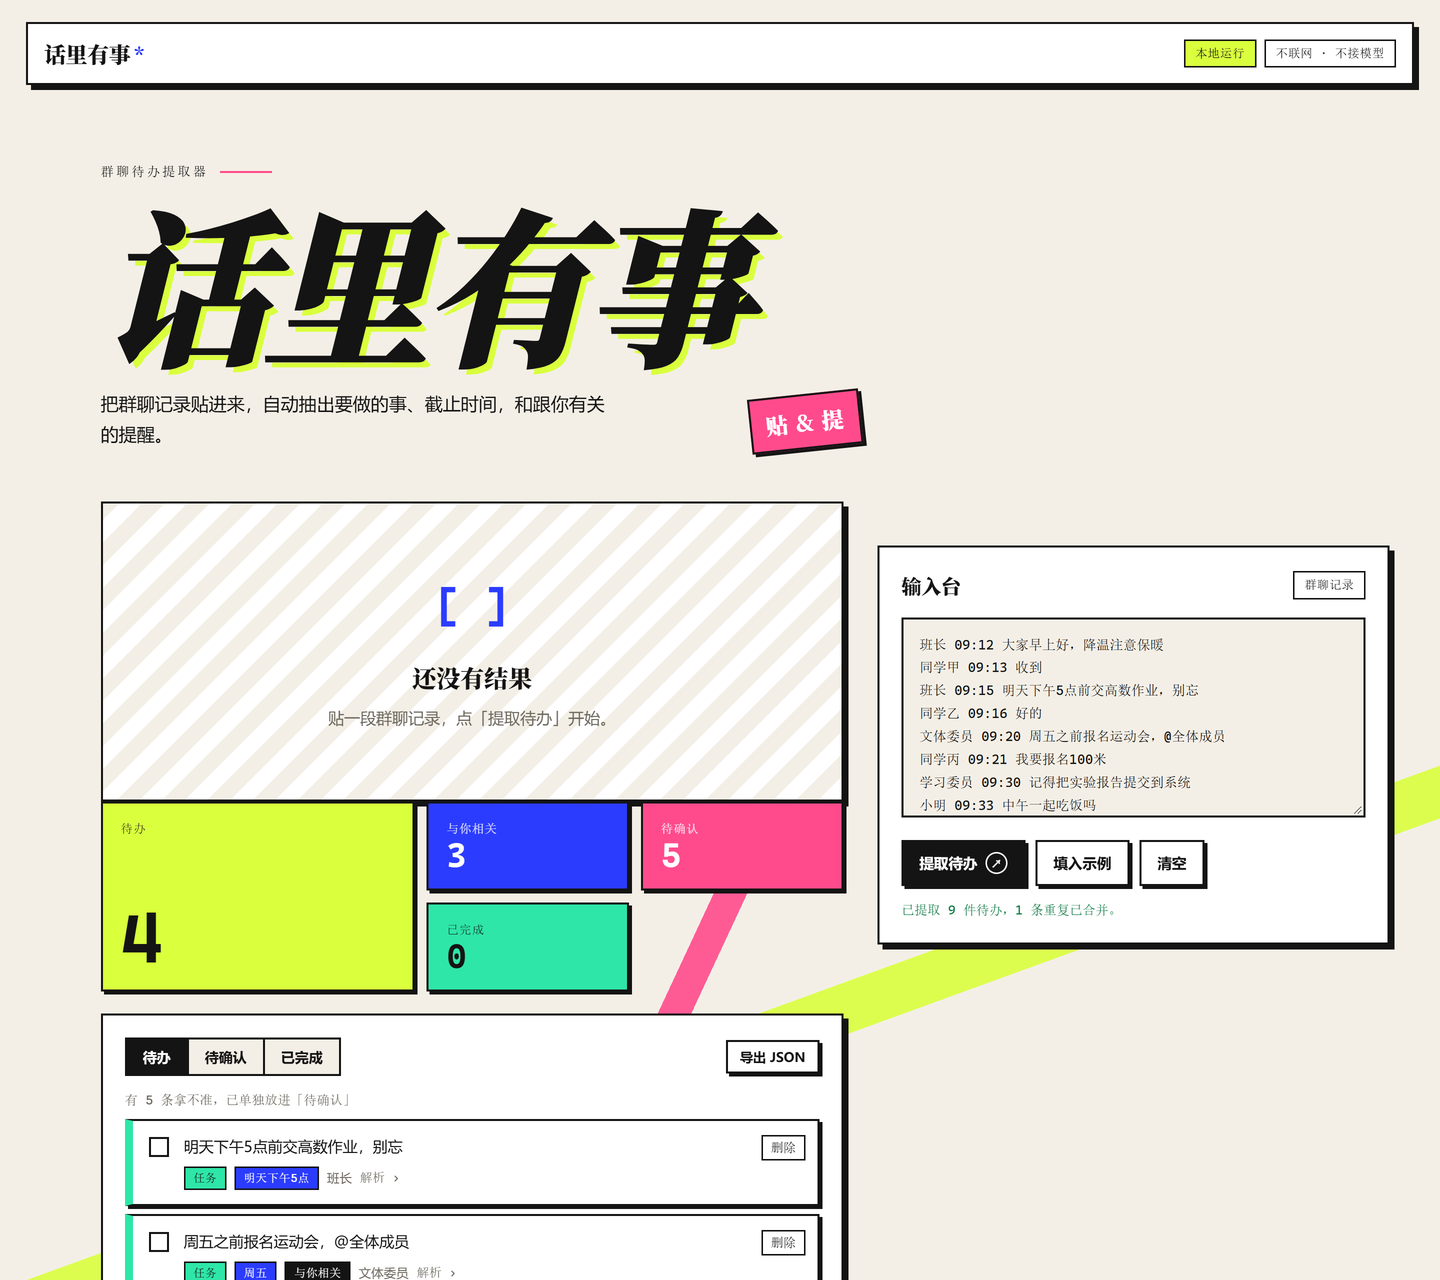
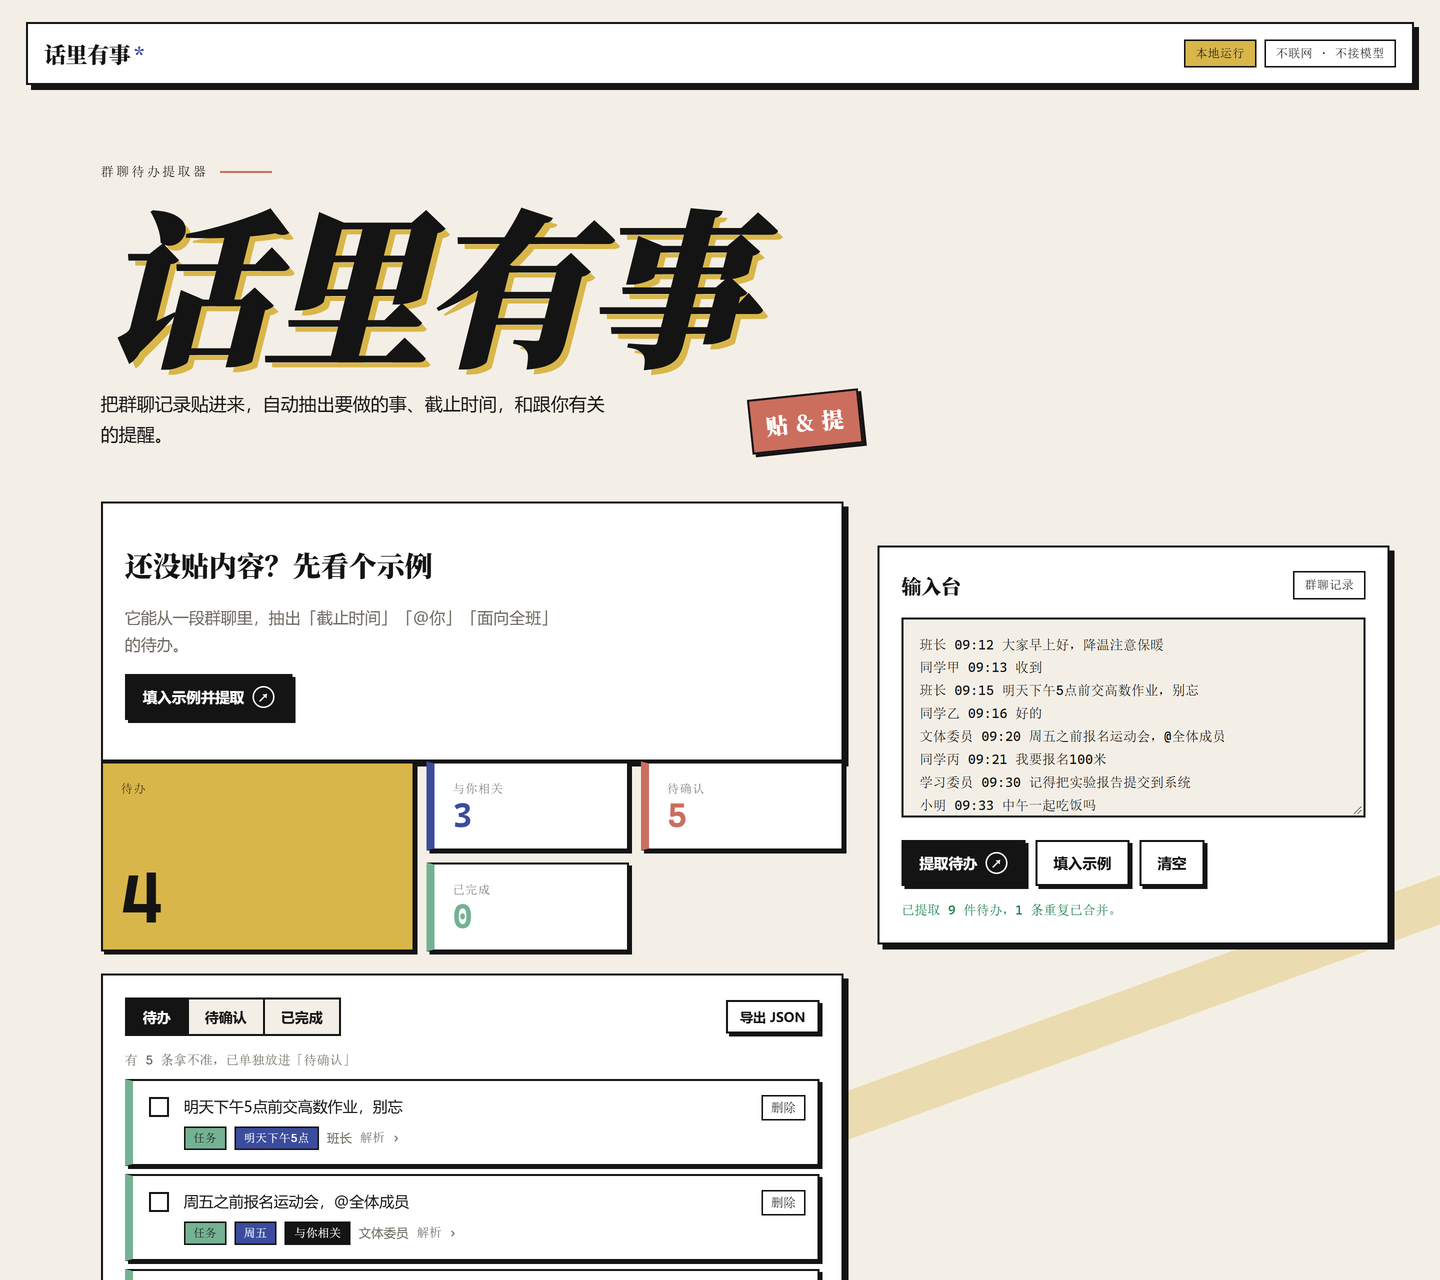
降饱和配色 + 空态改一键体验引导卡
- 配色压火：荧光色降一档饱和/明度
  酸柠绿→芥末黄 #D9B64A、钴蓝→靛蓝 #3B4C9E、
  荧光粉→陶土 #CB6E5E、薄荷→灰绿 #74B293
- 大面积高饱和只留「待办」大块；其余三个统计块改
  白底 + 各自色粗边 + 数字用色，实心色块面积砍到 1/4
- 背景斜带去粉、压淡
- 空态「[ ] 还没有结果」装饰方格 → 引导卡：
  大字 + 说明 + 「填入示例并提取」按钮（点击=填示例+提取）

diff --git a/styles.css b/styles.css
@@ -6,18 +6,18 @@
    ============================================================ */
 
 :root {
-  /* 撞色色板：酸柠绿 × 钴蓝 × 荧光粉 × 薄荷，压在一个近黑骨架上 */
+  /* 撞色色板：芥末黄 × 靛蓝 × 陶土 × 灰绿，压在一个近黑骨架上 */
   --paper: #F4EFE6;   /* 暖纸底 */
   --paper-2: #EAE2D2;
   --ink: #141414;     /* 近黑 */
   --white: #FFFFFF;
 
-  --acid: #D9FF3D;    /* 酸柠绿 */
-  --blue: #2B3CFF;    /* 钴蓝 */
+  --acid: #D9B64A;    /* 芥末黄 */
+  --blue: #3B4C9E;    /* 靛蓝 */
   --blue-ink: #FFFFFF;
-  --pink: #FF4B8C;    /* 荧光粉 */
-  --mint: #2EE6A8;    /* 薄荷 */
-  --orange: #FF5A1F;  /* 橙 */
+  --pink: #CB6E5E;    /* 陶土 */
+  --mint: #74B293;    /* 灰绿 */
+  --orange: #C2541E;  /* 橙 */
 
   --amber: #B4630A;
   --red: #D43A26;
@@ -25,7 +25,7 @@
   --line: #141414;
   --line-soft: rgba(20, 20, 20, 0.16);
   --weak: #6E6A60;
-  --mark: #D9FF3D;
+  --mark: #D9B64A;
 
   /* 字体混搭：衬线标题 × 无衬线正文 × 等宽标签 */
   --display: "Noto Serif SC", "Source Han Serif SC", "Songti SC", "STSong", "SimSun", Georgia, serif;
@@ -55,18 +55,17 @@ body {
   overflow-x: hidden;
 }
 
-/* ---- 斜向撞色背景带（不对称的底色）---- */
+/* ---- 斜向撞色背景带（不对称的底色，压淡不抢戏）---- */
 .bg {
   position: fixed;
   inset: 0;
   z-index: -1;
   pointer-events: none;
   background:
-    linear-gradient(160deg, transparent 0 58%, var(--acid) 58% 62%, transparent 62%) no-repeat,
-    linear-gradient(115deg, transparent 0 46%, var(--pink) 46% 48%, transparent 48%) no-repeat;
-  background-size: 100% 62%, 100% 40%;
-  background-position: 0 108%, 0 100%;
-  opacity: 0.9;
+    linear-gradient(160deg, transparent 0 60%, var(--acid) 60% 64%, transparent 64%) no-repeat;
+  background-size: 100% 55%;
+  background-position: 0 115%;
+  opacity: 0.35;
 }
 
 /* ---- 顶栏 ---- */
@@ -281,21 +280,19 @@ textarea:focus { background: var(--white); }
 .hint--ok { color: #0E7A44; }
 .hint--warn { color: var(--amber); }
 
-/* ---- 输出区 ---- */
+/* ---- 输出区：空态引导卡（一键体验入口）---- */
 .placeholder {
-  min-height: 300px;
+  min-height: 260px;
   display: flex;
   flex-direction: column;
-  align-items: center;
+  align-items: flex-start;
   justify-content: center;
-  gap: 8px;
-  text-align: center;
-  background:
-    repeating-linear-gradient(-45deg, var(--white) 0 16px, var(--paper) 16px 32px);
+  gap: 16px;
+  text-align: left;
+  background: var(--white);
 }
-.placeholder__icon { margin: 0; font-family: var(--mono); font-size: 44px; font-weight: 700; color: var(--blue); }
-.placeholder__title { margin: 8px 0 0; font-family: var(--display); font-weight: 900; font-size: 24px; }
-.placeholder__sub { margin: 0; color: var(--weak); }
+.placeholder__title { margin: 0; font-family: var(--display); font-weight: 900; font-size: 28px; }
+.placeholder__sub { margin: 0; color: var(--weak); max-width: 440px; line-height: 1.7; }
 
 /* ---- 统计块：不对称 grid，右下故意留空 ---- */
 .stats {
@@ -321,9 +318,14 @@ textarea:focus { background: var(--white); }
   background: var(--acid);
 }
 .stat--big .stat__num { font-size: 72px; }
-.stat--blue { background: var(--blue); color: var(--blue-ink); }
-.stat--pink { background: var(--pink); color: var(--white); }
-.stat--mint { background: var(--mint); }
+/* 三个次要统计：白底 + 各自色粗边 + 数字用色，压掉大面积高饱和 */
+.stat--blue { background: var(--white); color: var(--ink); border-left: 8px solid var(--blue); }
+.stat--pink { background: var(--white); color: var(--ink); border-left: 8px solid var(--pink); }
+.stat--mint { background: var(--white); color: var(--ink); border-left: 8px solid var(--mint); }
+.stat--blue .stat__num { color: var(--blue); }
+.stat--pink .stat__num { color: var(--pink); }
+.stat--mint .stat__num { color: var(--mint); }
+.stat--blue .stat__label, .stat--pink .stat__label, .stat--mint .stat__label { opacity: 0.6; }
 
 .stat__label { display: block; font-family: var(--mono); font-size: 12px; letter-spacing: 0.06em; opacity: 0.85; }
 .stat__num { display: block; font-family: var(--mono); font-weight: 700; font-size: 34px; line-height: 1; }

diff --git a/index.html b/index.html
@@ -33,9 +33,12 @@
       <!-- 左：结果 -->
       <section class="col col--results">
         <div id="placeholder" class="box placeholder">
-          <p class="placeholder__icon" aria-hidden="true">[ ]</p>
-          <p class="placeholder__title">还没有结果</p>
-          <p class="placeholder__sub">贴一段群聊记录，点「提取待办」开始。</p>
+          <p class="placeholder__title">还没贴内容？先看个示例</p>
+          <p class="placeholder__sub">它能从一段群聊里，抽出「截止时间」「@你」「面向全班」的待办。</p>
+          <button type="button" id="quickstart" class="btn btn--primary">
+            <span>填入示例并提取</span>
+            <span class="btn__icon" aria-hidden="true">↗</span>
+          </button>
         </div>
 
         <section id="result" class="result" hidden>

diff --git a/app.js b/app.js
@@ -30,6 +30,7 @@
   const chatEl = document.getElementById('chat');
   const extractBtn = document.getElementById('extract');
   const sampleBtn = document.getElementById('sample');
+  const quickstartBtn = document.getElementById('quickstart');
   const clearBtn = document.getElementById('clear');
   const hintEl = document.getElementById('hint');
   const resultEl = document.getElementById('result');
@@ -330,6 +331,7 @@
 
   extractBtn.addEventListener('click', doExtract);
   sampleBtn.addEventListener('click', function () { chatEl.value = SAMPLE_CHAT; setHint(''); save(); });
+  quickstartBtn.addEventListener('click', function () { chatEl.value = SAMPLE_CHAT; doExtract(); });
   clearBtn.addEventListener('click', function () {
     chatEl.value = '';
     items = [];

diff --git a/README.md b/README.md
@@ -20,7 +20,7 @@
 - **类型标签**：每条标为 **任务 / 提醒 / 请求** 三类之一，一眼区分"要去做""知道一下""有人求你"。
 - **导出 JSON**：把结果导出成结构化 JSON，方便接后续工具或写进复盘材料。
 - **本地存储**：数据只存在本浏览器（localStorage），刷新不丢，不上传、不联网。
-- **界面**：新粗野主义（Neo-brutalism）风格——撞色（酸柠绿 × 钴蓝 × 荧光粉 × 薄荷）、2px 硬描边、无 blur 的实心硬阴影、衬线斜体大标题 × 无衬线正文 × 等宽标签三种字体混搭，负空间刻意不对称（左宽右窄、侧栏错位、统计块右下留空）。左侧放结果、右侧放输入台，点条目时输入台原地切换成解析面板。纯手写 CSS（无框架、无构建），动效只用 transform/opacity，适配移动端与「减少动态效果」系统设置。
+- **界面**：新粗野主义（Neo-brutalism）风格——复古撞色（芥末黄 × 靛蓝 × 陶土 × 灰绿）、2px 硬描边、无 blur 的实心硬阴影、衬线斜体大标题 × 无衬线正文 × 等宽标签三种字体混搭，负空间刻意不对称（左宽右窄、侧栏错位、统计块右下留空）。空态是一张「填入示例并提取」的引导卡，一键出结果。左侧放结果、右侧放输入台，点条目时输入台原地切换成解析面板。纯手写 CSS（无框架、无构建），动效只用 transform/opacity，适配移动端与「减少动态效果」系统设置。
 
 ## 暂不做什么
 
